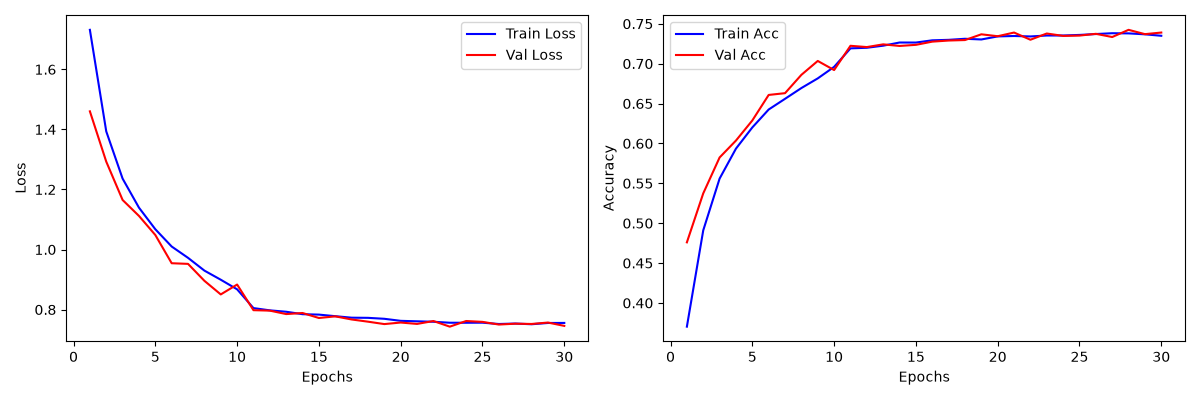
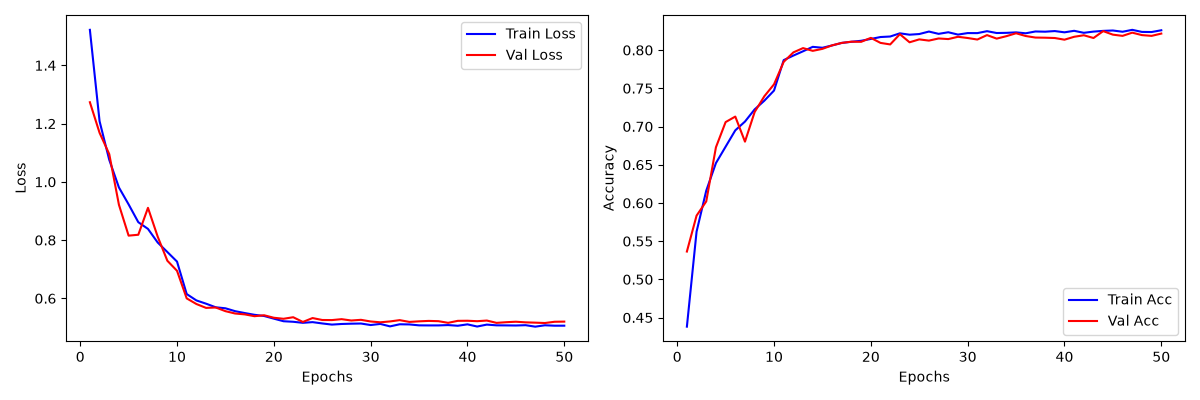
更新训练曲线和混淆矩阵

diff --git a/README.md b/README.md
@@ -11,15 +11,13 @@
 
 | 模型 | 数据增强 | 测试准确率  |
 |------|----------|--------|
-| SimpleCNN | 随机翻转 + 裁剪 | 75.94% |
-| ResNet18  | 随机翻转 + 裁剪 | 72.12% |
+| SimpleCNN | 随机翻转 + 裁剪 | 80.36% |
+| ResNet18  | 随机翻转 + 裁剪 | 72.62% |
 
 #### SimpleCNN训练曲线![learning_curves.png](runs/exp1/learning_curves.png)
 #### ResNet18训练曲线![learning_curves.png](runs/exp2/learning_curves.png)
-
 #### SimpleCNN混淆矩阵![confusion_matrix.png](runs/exp1/confusion_matrix.png)
 #### ResNet18混淆矩阵![confusion_matrix.png](runs/exp2/confusion_matrix.png)
-
 ## 结果分析
 ResNet18在相同训练轮次和学习率下准确率低于SimpleCNN，可能是因为
 学习率过小导致收敛缓慢，且网络较深需要更多训练轮次。后续是演讲增大学